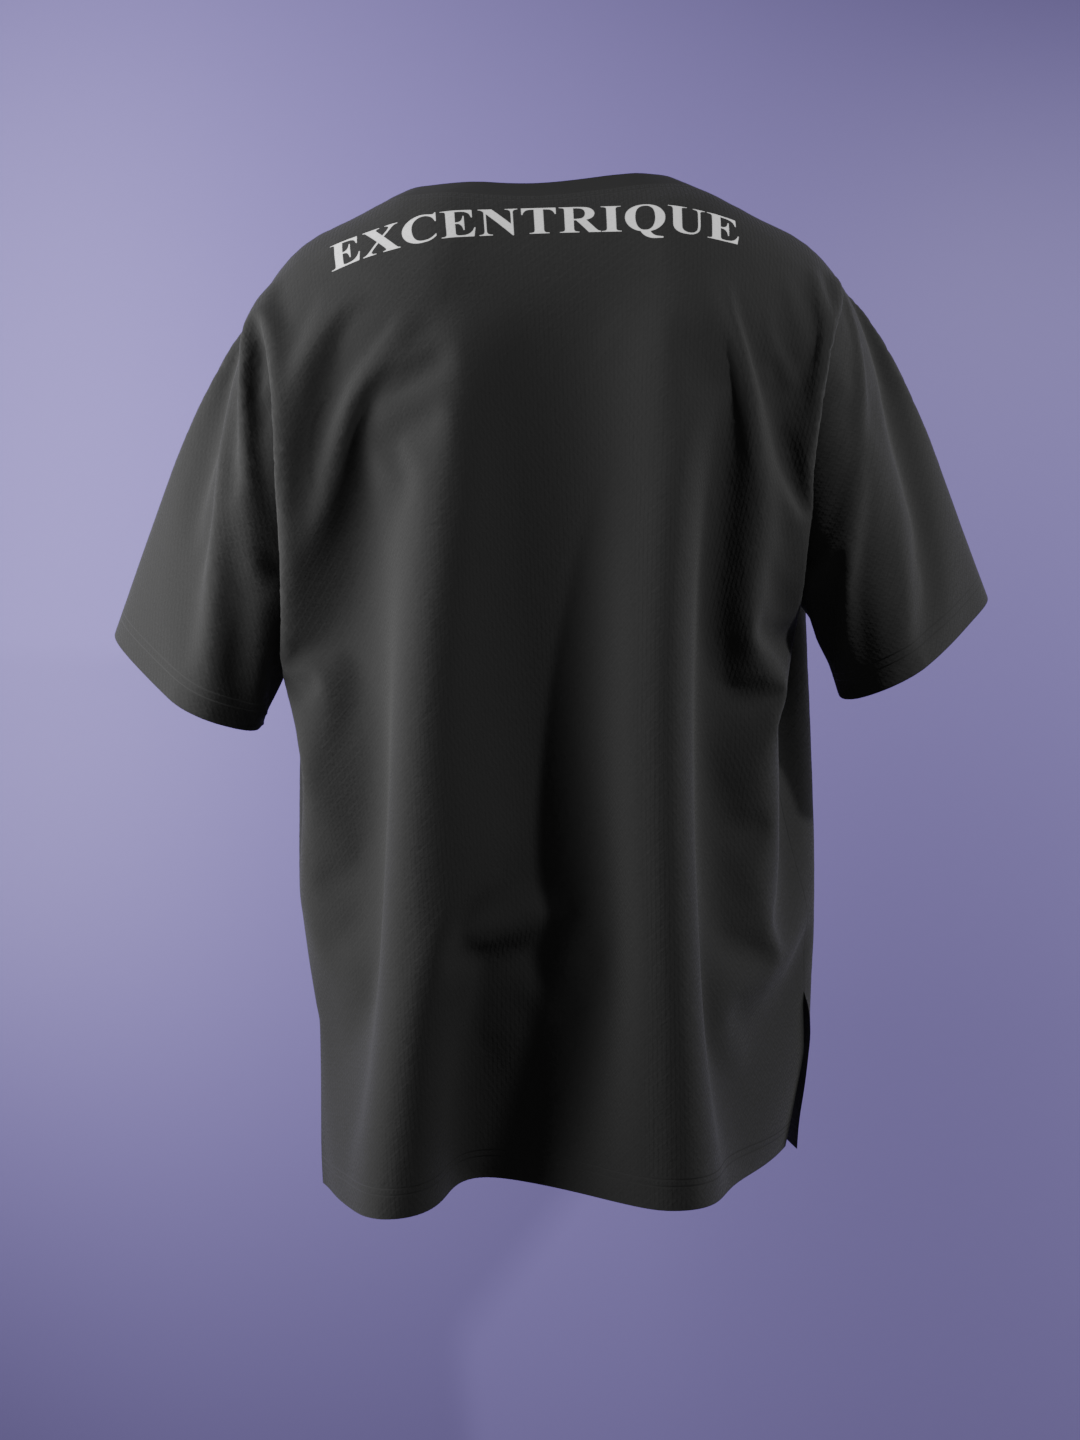
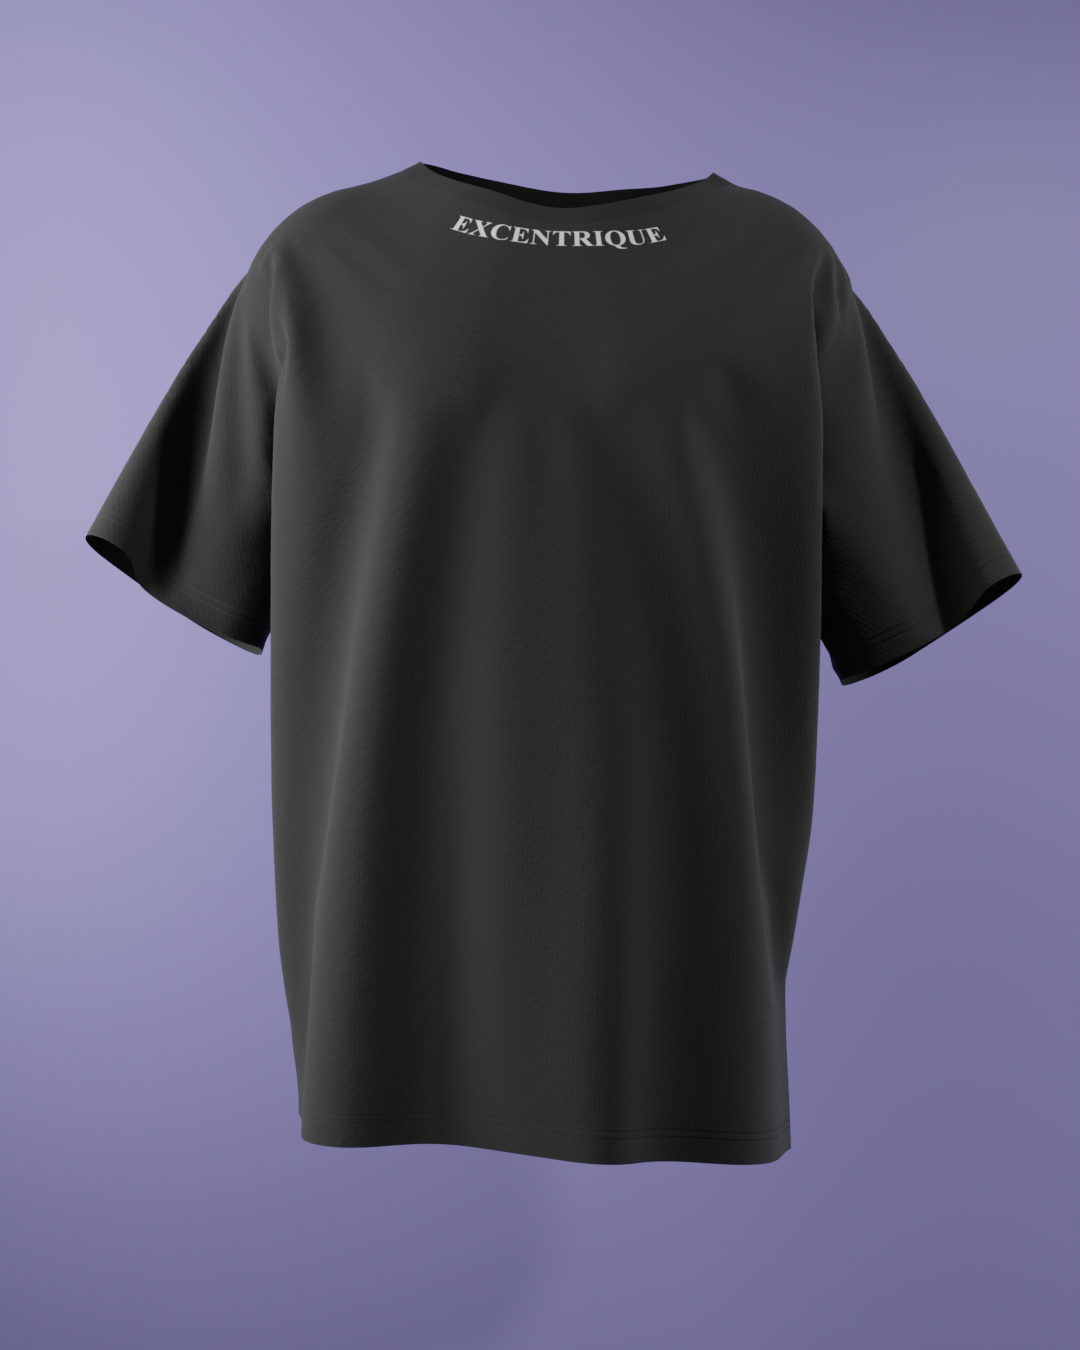
Added better mockups for products

diff --git a/products-firebase.js b/products-firebase.js
@@ -63,6 +63,8 @@ async function RetrieveData(){
         document.getElementById('product-image-2').src = productData.images[1];
         document.getElementById('product-image-3').src = productData.images[2];
         document.getElementById('product-image-4').src = productData.images[3];
+        document.getElementById('product-image-5').src = productData.images[4];
+        document.getElementById('product-image-6').src = productData.images[5];
 
         document.getElementById('product-image-1-full').src = productData.images[0];
         document.getElementById('product-image-2-full').src = productData.images[1];

diff --git a/product-page.html b/product-page.html
@@ -83,6 +83,8 @@
                 <img src="" class="productImages" id="product-image-2">
                 <img src="" class="productImages" id="product-image-3">
                 <img src="" class="productImages" id="product-image-4">
+                <img src="" class="productImages" id="product-image-5">
+                <img src="" class="productImages" id="product-image-6">
             <!-- </div> -->
         </div>
         <div class="top-container-mobile">

diff --git a/index.css b/index.css
@@ -151,7 +151,7 @@ body{
 
 .navbar2.opaque a:hover{
   color: inherit;
-  text-shadow:0px 0px 30px #fff9ef;
+  text-shadow:0px 0px 30px #333;
   -moz-transition: text-shadow 0.2s ease-in;
   -o-transition: text-shadow 0.2s ease-in;
   -webkit-transition: text-shadow 0.2s ease-in;
@@ -196,7 +196,7 @@ body{
 
 .navbar2 li:hover .menu-container{
   transition: all 0.3s ease;
-  top: 170px;
+  top: 178px;
   opacity: 1;
   visibility: visible;
 }

diff --git a/product-page.css b/product-page.css
@@ -245,7 +245,6 @@ body{
 .left-container{
   padding-top: 10px;
   padding-left: 20px;
-  height: 100vh;
   display: grid;
   grid-template-columns: repeat(auto-fill,minmax(240px,1fr));
   gap: 10px;
